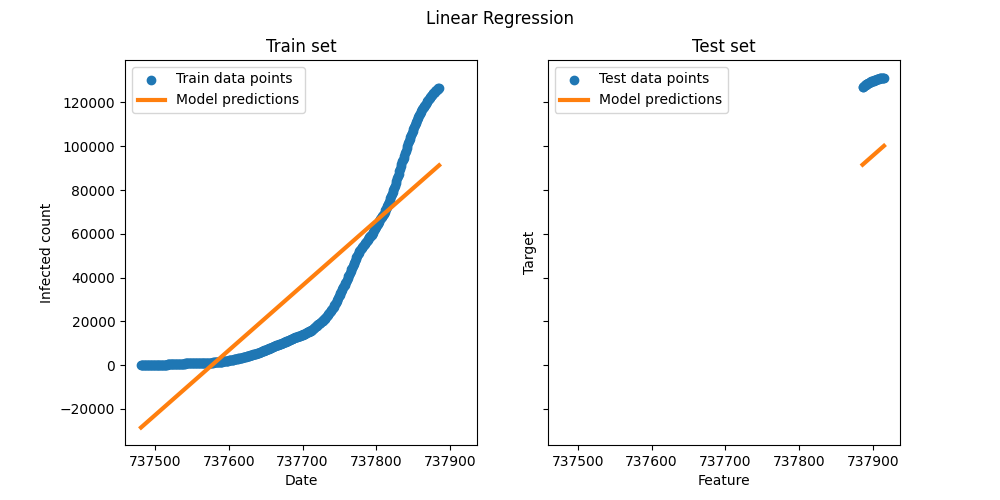
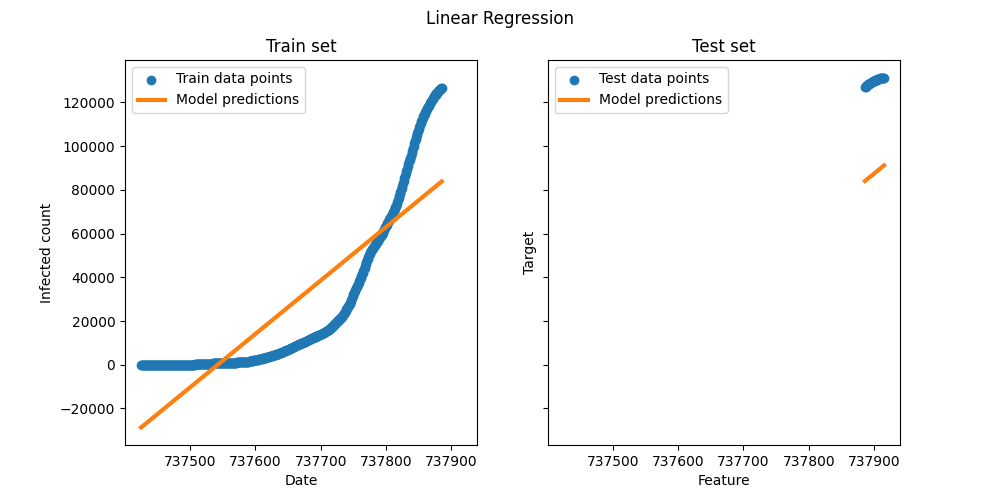
fix: dates parsing

diff --git a/notebooks/03.py b/notebooks/03.py
@@ -1,4 +1,4 @@
-# %%
+#%%
 import pandas as pd
 import numpy as np
 import matplotlib.pyplot as plt
@@ -8,40 +8,40 @@ from sklearn.model_selection import train_test_split
 from sklearn.linear_model import LinearRegression
 from sklearn.metrics import r2_score
 
-# %%
+#%%
 df = pd.read_csv("data/owid-covid-data.csv")
 
-# %%
+#%%
 df.info()
 
-# %%
+#%%
 cols_to_convert = ["iso_code", "continent", "location", "tests_units"]
 df[cols_to_convert] = df[cols_to_convert].apply(lambda s: s.astype("category"))
 df["date"] = pd.to_datetime(df["date"], errors="coerce")
 
-# %%
+#%%
 df.info()
 
-# %%
+#%%
 continent_counts = df["continent"].value_counts(dropna=False)
 continent_counts.to_frame()
 
-# %%
+#%%
 tests_units_counts = df["tests_units"].value_counts(dropna=False)
 tests_units_counts.to_frame()
 
-# %%
+#%%
 pd.options.display.float_format = "{:,.2f}".format
 
-# %%
+#%%
 continent_sum = df.groupby(["continent"], observed=False)["total_cases"].sum()
 continent_sum.sort_values(ascending=False)
 
-# %%
+#%%
 tests_units_sum = df.groupby(["tests_units"], observed=False)["total_cases"].sum()
 tests_units_sum.sort_values(ascending=False)
 
-# %%
+#%%
 pivot = df.pivot_table(
     values="total_cases",
     columns="location",
@@ -51,32 +51,35 @@ pivot = df.pivot_table(
 )
 pivot.shape
 
-# %%
+#%%
 countries = ["Albania", "North Macedonia", "Serbia", "Croatia"]
 pivot = pivot[countries].dropna(how="any")
 pivot.to_csv("data/cases_by_country.csv")
 pivot.shape
 
-# %%
+#%%
 pivot.plot()
 plt.savefig("images/cases_by_country.png")
 
-# %%
+#%%
 pivot.corr(method="pearson")
 # pivot.corr(method="spearman")
 # pivot.corr(method="kendall")
 
-# %%
+#%%
 def compare_columns(df: pd.DataFrame, col_x: str, col_y: str) -> dict[str, Any]:
     if col_x not in df.columns or col_y not in df.columns:
         raise KeyError(f"Both '{col_x}' and '{col_y}' must be in DataFrame columns")
+
     x = df[col_x].astype(float).values.reshape(-1, 1)
     y = df[col_y].astype(float).values
+
     regressor = LinearRegression().fit(x, y)
     y_pred = regressor.predict(x)
+
     r2 = r2_score(y, y_pred)
-    corr = np.corrcoef(x.flatten(), y)[0, 1]
     print(f"R^2: {r2_score(y, y_pred):.2f}")
+
     plt.figure(figsize=(6, 5))
     plt.scatter(x, y, label="Data points", alpha=0.7)
     plt.plot(x, y_pred, color="tab:orange", linewidth=2, label="Fitted line")
@@ -87,23 +90,27 @@ def compare_columns(df: pd.DataFrame, col_x: str, col_y: str) -> dict[str, Any]:
     plt.tight_layout()
     plt.savefig(f"images/relation_{col_x.lower()}_{col_y.lower()}.png")
 
-# %%
+#%%
 compare_columns(pivot, "Albania", "North Macedonia")
 compare_columns(pivot, "Albania", "Serbia")
 compare_columns(pivot, "Albania", "Croatia")
 
-# %%
+#%%
 def plot_regression(df: pd.DataFrame, column: str, test_size: float) -> dict[str, Any]:
     if column not in df.columns:
         raise KeyError(f"Column '{column}' not found in DataFrame")
+
     series = df[column].copy()
     dates = series.index
-    X = np.array([parse_date(d).toordinal() for d in dates]).reshape(-1, 1)
+
+    X = np.array([d.toordinal() for d in dates]).reshape(-1, 1)
     y = series.values.astype(float)
     X_train, X_test, y_train, y_test = train_test_split(X, y, test_size=test_size, shuffle=False)
+
     regressor = LinearRegression().fit(X_train, y_train)
     y_pred = regressor.predict(X_test)
     print(f"R^2: {r2_score(y_test, y_pred):.2f}")
+
     fig, ax = plt.subplots(ncols=2, figsize=(10, 5), sharex=True, sharey=True)
     ax[0].scatter(X_train, y_train, label="Train data points")
     ax[0].plot(
@@ -122,7 +129,7 @@ def plot_regression(df: pd.DataFrame, column: str, test_size: float) -> dict[str
     fig.suptitle("Linear Regression")
     plt.savefig(f"images/predict_{column.lower()}.png")
 
-# %%
+#%%
 plot_regression(pivot, "Albania", 30)
 plot_regression(pivot, "North Macedonia", 30)
 plot_regression(pivot, "Serbia", 30)
